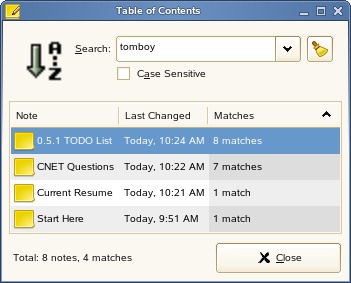
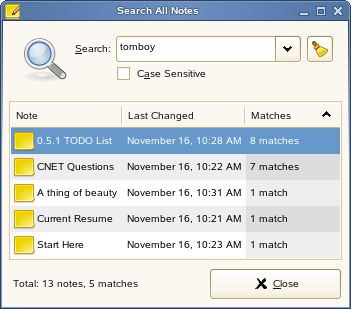
Update for 0.5.1. Ditto. Also added information about the latest stable
2006-11-22  Boyd Timothy  <btimothy@gmail.com>

	* NEWS: Update for 0.5.1.
	* www/index.html: Ditto.  Also added information about the latest
	stable release (0.4.1) to the page.

	* www/img/applet-small.png: New screenshot from 0.5.1.
	* www/img/search-small.png: Ditto.
	* www/img/windows-small.png: Ditto.

diff --git a/www/index.html b/www/index.html
@@ -162,20 +162,38 @@
       <a href="http://gtkspell.sourceforge.net/">GtkSpell</a>.</p>
 
       <div id="download-link">
-        <p><h3><a href="http://download.gnome.org/sources/tomboy/0.5/tomboy-0.5.0.tar.gz"><b>Download the latest
-        Tomboy here. </b></a></h3></p>
+        <p><h3><a href="http://download.gnome.org/sources/tomboy/0.4/tomboy-0.4.1.tar.gz"><b>Download the latest
+        stable release (0.4.1) here.</b></a></h3></p>
       </div>
 
-      <p>The newest release (0.5.0) has lots of great new features and
-      bugfixes, including:</p>
+      <p>The latest stable release (0.4.1) has the following new features and bugfixes:</p>
       <ul>
-		<li>New note pinning in main menu.</li>
-		<li>New integrated table of contents and search.</li>
-		<li>New find bar for searching inside a single note.</li>
-		<li>New Bugzilla plugin (David Trowbridge).</li>
-		<li>New Tomboy icons (Jakub Steiner).</li>
-		<li>Number of notes in main menu configurable in GConf.</li>
-		<li><a href="http://cvs.gnome.org/viewcvs/tomboy/NEWS?rev=1.15">And more...</a></li>
+		<li>Support building with Gtk# 2.</li>
+		<li>New Sticky Notes import plugin (Sanford Armstrong).</li>
+		<li>Note loading code cleanups (Sebastian Rittau).</li>
+		<li>Use Tango icons by default.</li>
+		<li>Allow icon theming.</li>
+		<li>Support TOMBOY_PATH environment variable.</li>
+		<li><a href="http://cvs.gnome.org/viewcvs/tomboy/NEWS?rev=1.14">And more...</a></li>
+		<li><a href="http://cvs.gnome.org/viewcvs/tomboy/ChangeLog?rev=1.293">Detailed ChangeLog</a></li>
+      </ul>
+
+      <div id="download-link">
+        <p><h3><a href="http://download.gnome.org/sources/tomboy/0.5/tomboy-0.5.1.tar.gz"><b>Download the latest
+        development release (0.5.1) here. </b></a></h3></p>
+      </div>
+
+      <p>The latest development release (0.5.1) uses managed D-Bus code (NDesk's DBusSharp)
+      for the first time and includes a few bugfixes, including:</p>
+      <ul>
+		<li>New Managed D-Bus/DBusSharp (Sebastian Dröge).</li>
+		<li>Additional search interface improvements.</li>
+		<li>More secure wrapper script to launch Tomboy.exe.</li>
+		<li>Fix panel and TrayIcon resizing.</li>
+		<li>Fix 1x1 pixel TrayIcon.</li>
+		<li>Removed old tintin image.</li>
+		<li><a href="http://cvs.gnome.org/viewcvs/tomboy/NEWS?rev=1.16">And more...</a></li>
+		<li><a href="http://cvs.gnome.org/viewcvs/tomboy/ChangeLog?rev=1.334">Detailed ChangeLog</a></li>
       </ul>
 
       <a name="get_involved"><h1>Get Involved</h1></a>
